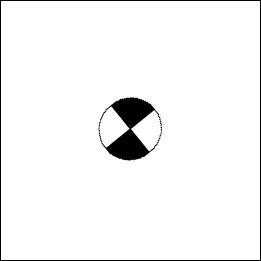
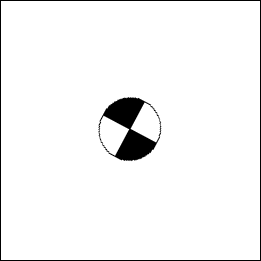
roll motion is added to the code

Changed region(s): [[0.3678, 0.3678, 0.613, 0.613], [0.613, 0.4598, 0.6437, 0.5211], [0.4904, 0.613, 0.5211, 0.6437]]

diff --git a/ui/main_ui.py b/ui/main_ui.py
@@ -69,6 +69,8 @@ class Ui_Form(object):
             motion = "pitch/p"
         elif motion_index == 1:  # yaw
             motion = "yaw/y"
+        elif motion_index == 2:
+            motion = "roll/r"
         else:
             print "Simulation is over"
             sys.exit(app.exec_())
